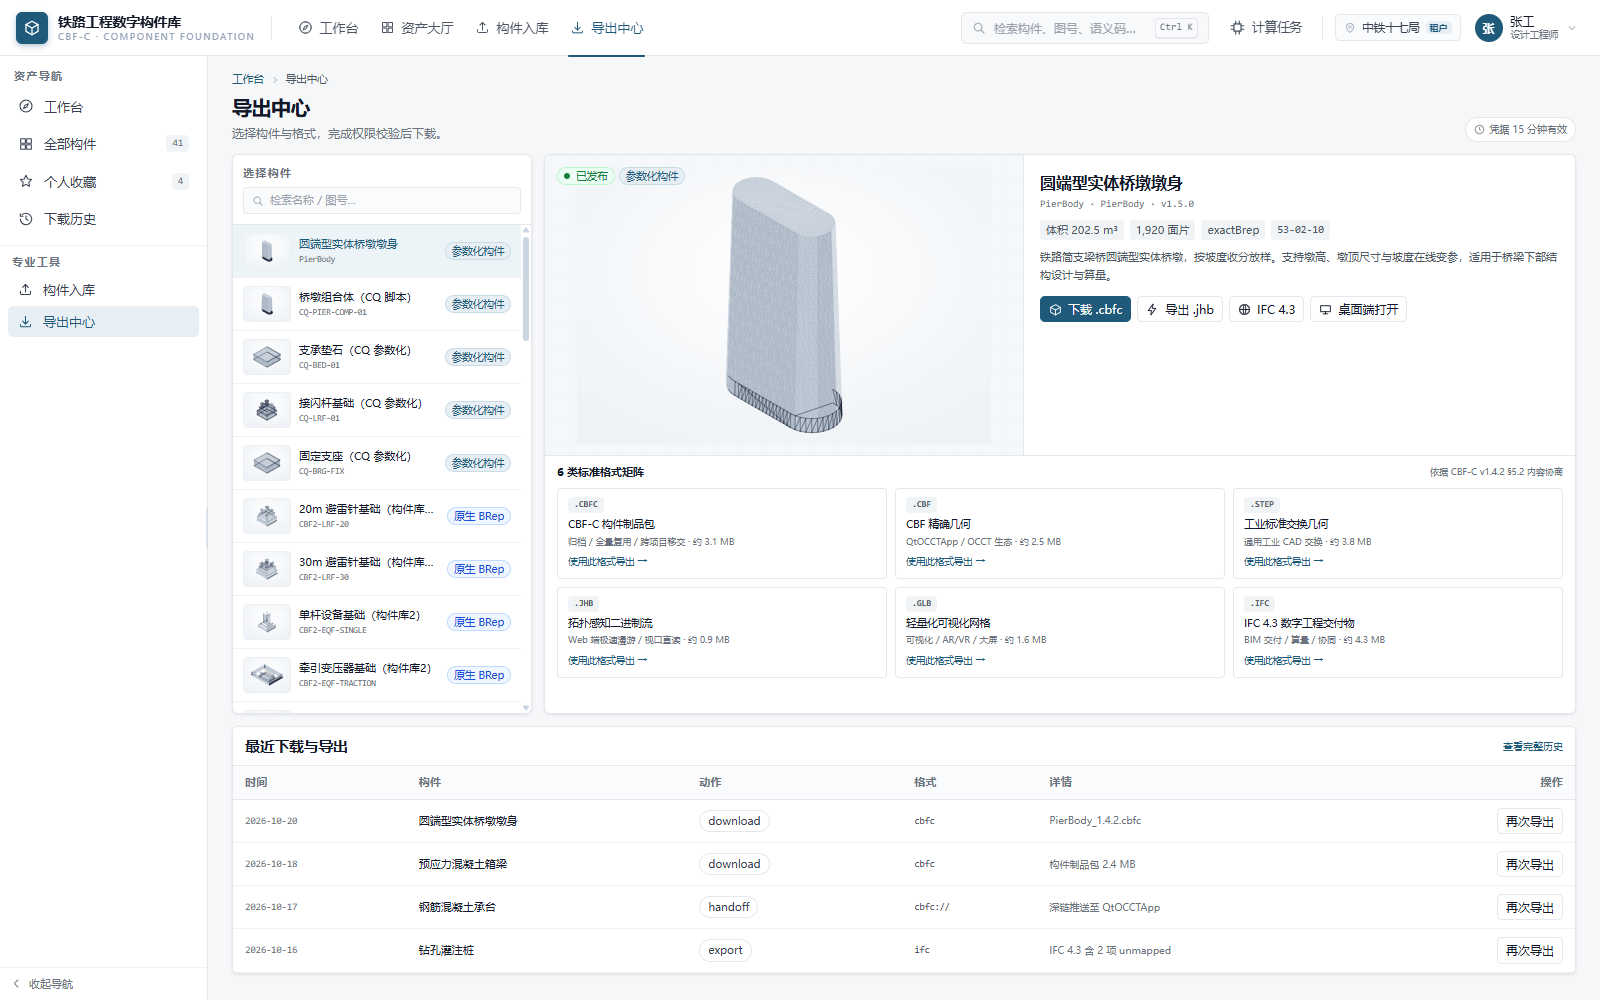
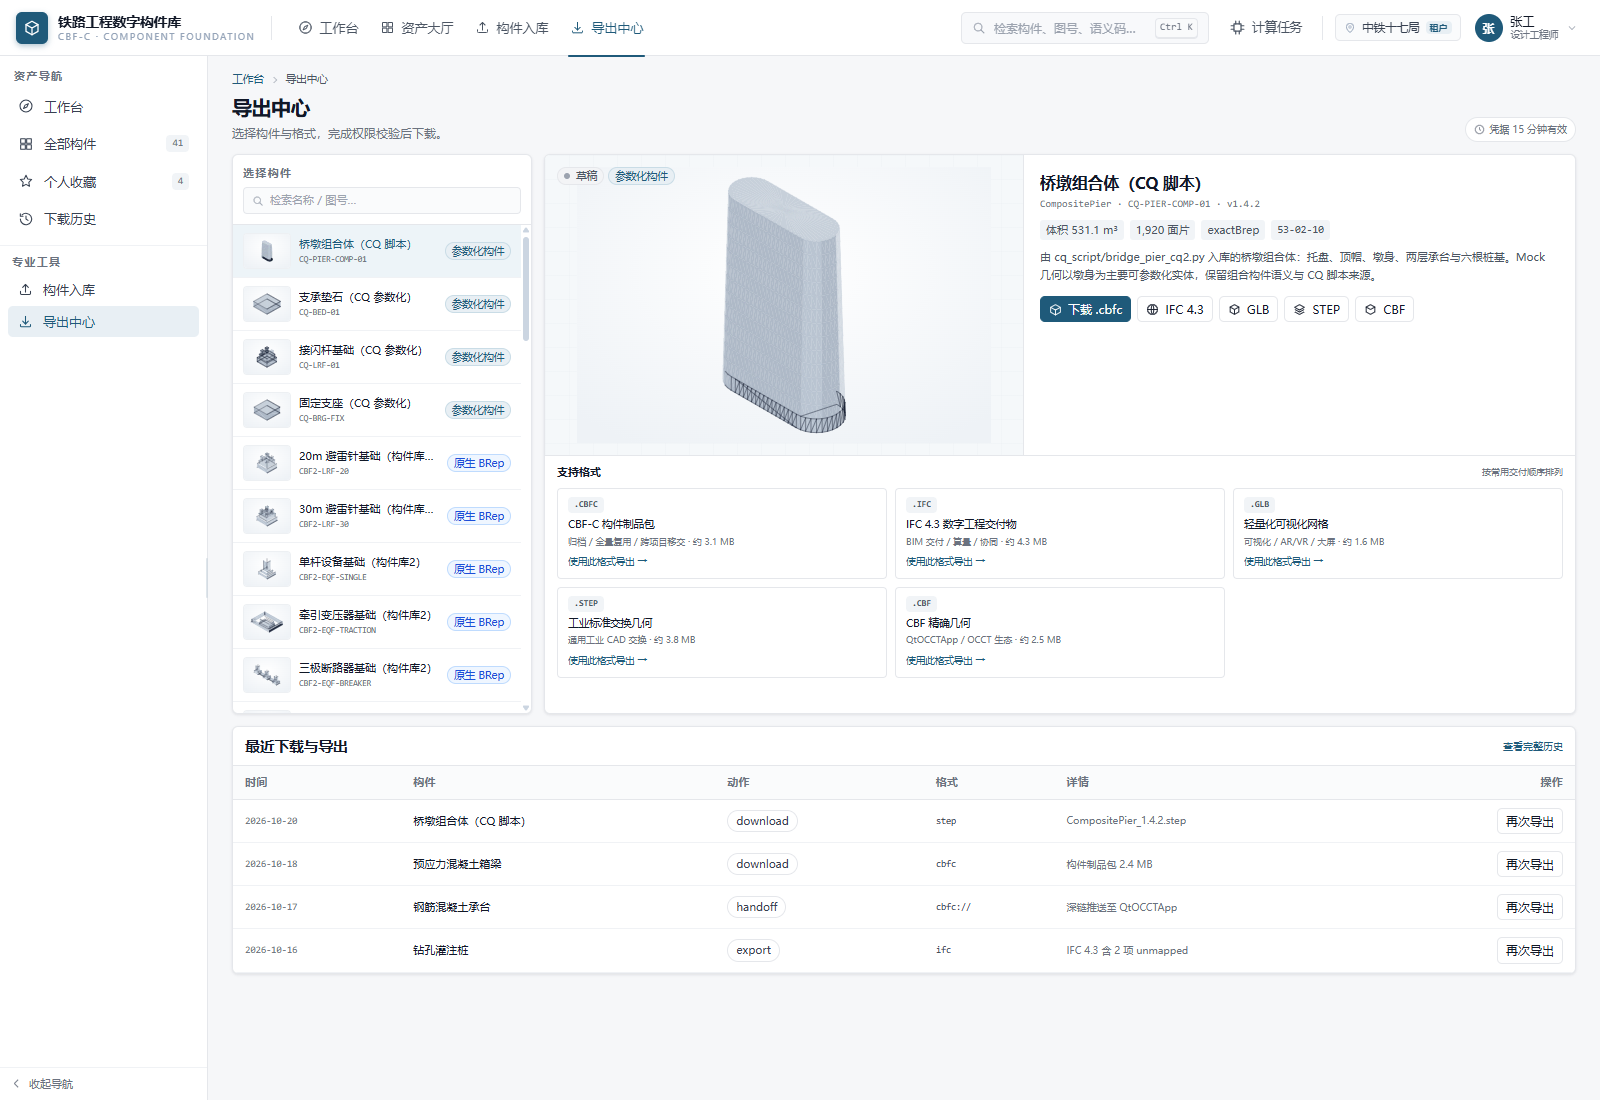
feat(cbfc-web): refine export formats and viewport controls

diff --git a/cbfc-web/src/components/export/ExportFlowModal.vue b/cbfc-web/src/components/export/ExportFlowModal.vue
@@ -30,6 +30,7 @@ const session = useSessionStore();
 const ui = useUiStore();
 
 type FormatOption = DownloadFormat & { available: boolean; reason: string | null };
+const FORMAT_ORDER = ['cbfc', 'ifc', 'glb', 'step', 'cbf'];
 const formats = ref<FormatOption[]>([]);
 const formatsLoading = ref(false);
 const selected = ref<string>('cbfc');
@@ -62,8 +63,11 @@ async function loadFormats() {
   formatsLoading.value = true;
   try {
     const data = await api.formats(props.component.familyId);
-    formats.value = data.formats;
-    const firstAvailable = data.formats.find((f) => f.available);
+    const available = data.formats.filter((format) => FORMAT_ORDER.includes(format.id));
+    formats.value = FORMAT_ORDER.map((id) => available.find((format) => format.id === id)).filter(
+      (format): format is FormatOption => Boolean(format),
+    );
+    const firstAvailable = formats.value.find((f) => f.available);
     if (firstAvailable) selected.value = firstAvailable.id;
   } catch (loadError) {
     error.value = loadError instanceof Error ? loadError.message : '格式清单加载失败';
@@ -172,7 +176,7 @@ function downloadNow() {
   ui.notify({
     type: 'success',
     title: '下载已开始',
-    message: `${ticket.value.fileName} · ${formatBytes(ticket.value.sizeBytes)}\n可在 QtOCCTApp 桌面端通过【文件 → 导入】直接打开。`,
+    message: `${ticket.value.fileName} · ${formatBytes(ticket.value.sizeBytes)}`,
   });
 }
 
@@ -274,7 +278,7 @@ async function copyChecksum() {
 <template>
   <ModalShell
     :open="open"
-    title="构件导出与跨端协同"
+    title="构件导出"
     :subtitle="component ? `${component.name} · ${component.drawingCode} · v${component.revision}` : ''"
     icon="download"
     width="lg"
@@ -284,7 +288,7 @@ async function copyChecksum() {
       <!-- 步骤 -->
       <ol class="mb-5 flex items-center gap-2">
         <li
-          v-for="(label, index) in ['格式与版本', '权限与许可', '生成与协同']"
+          v-for="(label, index) in ['格式与版本', '权限与许可', '生成与下载']"
           :key="label"
           class="flex flex-1 items-center gap-2"
         >
@@ -434,53 +438,9 @@ async function copyChecksum() {
           </div>
 
           <div class="rounded-md border border-line bg-[#FAFBFC] p-3">
-            <div class="flex items-start justify-between gap-2">
-              <div>
-                <p class="flex items-center gap-1.5 text-[12px] font-semibold text-ink">
-                  <AppIcon name="desktop" :size="14" class="text-primary" />在 QtOCCTApp 桌面端打开
-                </p>
-                <p class="mt-0.5 text-[10.5px] leading-relaxed text-muted">
-                  一次性 Handoff Token（TTL 45s，用后即焚）；2.0s 内未检测到桌面端自动回退文件下载。
-                </p>
-              </div>
-              <button class="btn btn-outline btn-sm" :disabled="busy" @click="startHandoff">
-                <AppIcon name="external" :size="12" />唤起桌面端
-              </button>
-            </div>
-
-            <div v-if="handoff" class="mt-2 space-y-1.5">
-              <div class="flex items-center gap-1.5 rounded border border-line bg-white px-2 py-1">
-                <span class="shrink-0 text-[9.5px] text-muted">DEEP LINK</span>
-                <span class="mono min-w-0 flex-1 truncate text-[9.5px] text-[#374151]">{{ handoff.deepLink }}</span>
-                <button class="shrink-0 text-[#6B7280] hover:text-primary" title="复制定位短链" @click="copyLink">
-                  <AppIcon name="copy" :size="12" />
-                </button>
-              </div>
-              <div class="flex flex-wrap items-center gap-1.5">
-                <StatusBadge
-                  :tone="handoffStatus === 'success' ? 'success' : handoffStatus === 'fallback' ? 'warning' : handoffStatus === 'error' ? 'danger' : 'info'"
-                  :label="
-                    handoffStatus === 'success'
-                      ? '桌面端票据已核销'
-                      : handoffStatus === 'fallback'
-                        ? '未检测到桌面端 · 已回退下载'
-                        : handoffStatus === 'error'
-                          ? '票据异常'
-                          : handoffStatus === 'probing'
-                            ? '等待桌面端握手（2.0s）'
-                            : '票据已签发'
-                  "
-                />
-                <span class="mono text-[9px] text-[#9CA3AF]">{{ maskKey(handoff.handoffToken, 14, 4) }} · TTL {{ handoff.expiresIn }}s</span>
-                <button class="btn btn-outline btn-sm" :disabled="busy" @click="simulateDesktopConsume">
-                  模拟桌面端核销
-                </button>
-              </div>
-              <div v-if="consumed" class="rounded border border-[#BBF7D0] bg-[#F0FDF4] px-2 py-1.5">
-                <p class="text-[10px] text-success">核销成功 · 桌面端已获得临时下载授权</p>
-                <p class="mono mt-0.5 truncate text-[9px] text-[#166534]">{{ consumed.downloadUrl }}</p>
-              </div>
-            </div>
+            <p class="text-[10.5px] leading-relaxed text-muted">
+              下载凭据 15 分钟内有效；制品由服务端按当前标准型号生成。
+            </p>
           </div>
         </template>
 
@@ -491,7 +451,7 @@ async function copyChecksum() {
         <div class="flex items-center gap-2 rounded-md border border-line bg-white px-3 py-2">
           <AppIcon name="info" :size="13" class="text-[#9CA3AF]" />
           <p class="text-[10px] leading-relaxed text-muted">
-            优先使用已预烘焙的标准型号制品；也可通过 cbfc:// 深链在桌面端打开。下载凭据 15 分钟内有效。
+            优先使用已预烘焙的标准型号制品；下载凭据 15 分钟内有效。
           </p>
         </div>
       </div>
@@ -502,7 +462,7 @@ async function copyChecksum() {
         <button v-if="step > 1" class="btn btn-ghost btn-sm" @click="prevStep">
           <AppIcon name="arrowLeft" :size="13" />上一步
         </button>
-        <span v-else class="text-[10px] text-muted">共 6 类标准格式 · 依据 CBF-C v1.4.2 §5.2 内容协商</span>
+        <span v-else class="text-[10px] text-muted">支持 5 种交付格式 · 依据 CBF-C v1.4.2 §5.2 内容协商</span>
         <div class="flex items-center gap-2">
           <button class="btn btn-ghost btn-sm" @click="emit('close')">关闭</button>
           <button v-if="step === 1" class="btn btn-primary btn-sm" :disabled="!selectedFormat?.available" @click="nextStep">

diff --git a/cbfc-web/src/views/ExportCenterView.vue b/cbfc-web/src/views/ExportCenterView.vue
@@ -26,7 +26,6 @@ const formats = ref<FormatRow[]>([]);
 const search = ref('');
 const exportOpen = ref(false);
 const exportFormat = ref('cbfc');
-const autoHandoff = ref(false);
 const loading = ref(true);
 const history = ref<{ id: string; familyId: string; name: string; action: string; format?: string; at: string; detail?: string }[]>([]);
 const ifcBusy = ref(false);
@@ -44,6 +43,15 @@ const filteredComponents = computed(() => {
 const exportHistory = computed(() =>
   history.value.filter((h) => ['download', 'export', 'handoff'].includes(h.action)).slice(0, 10),
 );
+const FORMAT_ORDER = ['cbfc', 'ifc', 'glb', 'step', 'cbf'];
+const visibleFormats = computed(() =>
+  FORMAT_ORDER.map((id) => formats.value.find((format) => format.id === id)).filter(
+    (format): format is FormatRow => Boolean(format),
+  ),
+);
+function isFormatAvailable(id: string) {
+  return formats.value.find((format) => format.id === id)?.available ?? true;
+}
 
 async function selectComponent(familyId: string) {
   selectedFamily.value = familyId;
@@ -59,9 +67,8 @@ async function selectComponent(familyId: string) {
   }
 }
 
-function openExport(format = 'cbfc', handoff = false) {
+function openExport(format = 'cbfc') {
   exportFormat.value = format;
-  autoHandoff.value = handoff;
   exportOpen.value = true;
 }
 
@@ -85,7 +92,7 @@ async function exportIfc() {
 
 async function reExport(familyId: string) {
   await selectComponent(familyId);
-  openExport('cbfc', false);
+  openExport('cbfc');
 }
 
 onMounted(async () => {
@@ -188,14 +195,17 @@ onMounted(async () => {
                 <button class="btn btn-primary btn-sm" @click="openExport('cbfc')">
                   <AppIcon name="package" :size="13" />下载 .cbfc
                 </button>
-                <button class="btn btn-outline btn-sm" @click="openExport('jhb')">
-                  <AppIcon name="zap" :size="13" />导出 .jhb
-                </button>
                 <button class="btn btn-outline btn-sm" :disabled="ifcBusy || !detail.geometry.exactBrep" @click="exportIfc">
                   <AppIcon name="globe" :size="13" />IFC 4.3
                 </button>
-                <button class="btn btn-outline btn-sm" @click="openExport('cbfc', true)">
-                  <AppIcon name="desktop" :size="13" />桌面端打开
+                <button class="btn btn-outline btn-sm" :disabled="!isFormatAvailable('glb')" @click="openExport('glb')">
+                  <AppIcon name="cube" :size="13" />GLB
+                </button>
+                <button class="btn btn-outline btn-sm" :disabled="!isFormatAvailable('step')" @click="openExport('step')">
+                  <AppIcon name="layers" :size="13" />STEP
+                </button>
+                <button class="btn btn-outline btn-sm" :disabled="!isFormatAvailable('cbf')" @click="openExport('cbf')">
+                  <AppIcon name="box" :size="13" />CBF
                 </button>
               </div>
             </div>
@@ -203,12 +213,12 @@ onMounted(async () => {
 
           <div class="border-t border-line">
             <div class="flex items-center justify-between px-3 py-2">
-              <p class="text-[11px] font-semibold text-ink">6 类标准格式矩阵</p>
-              <span class="text-[9px] text-muted">依据 CBF-C v1.4.2 §5.2 内容协商</span>
+              <p class="text-[11px] font-semibold text-ink">支持格式</p>
+              <span class="text-[9px] text-muted">按常用交付顺序排列</span>
             </div>
             <div class="grid gap-2 px-3 pb-3 sm:grid-cols-2 xl:grid-cols-3">
               <div
-                v-for="format in formats"
+                v-for="format in visibleFormats"
                 :key="format.id"
                 class="rounded border px-2.5 py-2"
                 :class="format.available ? 'border-line bg-white' : 'border-line bg-[#FAFBFC] opacity-60'"
@@ -263,7 +273,6 @@ onMounted(async () => {
       :open="exportOpen"
       :component="detail"
       :initial-format="exportFormat"
-      :auto-handoff="autoHandoff"
       @close="exportOpen = false"
     />
   </div>

diff --git a/cbfc-web/src/views/HomeView.vue b/cbfc-web/src/views/HomeView.vue
@@ -3,9 +3,8 @@ import { computed, onMounted, ref } from 'vue';
 import { useRouter } from 'vue-router';
 import AppIcon from '@/components/ui/AppIcon.vue';
 import StatusBadge from '@/components/ui/StatusBadge.vue';
-import ExportFlowModal from '@/components/export/ExportFlowModal.vue';
 import { api } from '@/api/client';
-import type { ComponentDetail, ComponentSummary, SemanticProfile } from '@/api/types';
+import type { ComponentSummary, SemanticProfile } from '@/api/types';
 import { useSessionStore } from '@/stores/session';
 import { useUiStore } from '@/stores/ui';
 import {
@@ -28,10 +27,6 @@ const publishedCount = ref(0);
 const profile = ref<SemanticProfile | null>(null);
 const loading = ref(true);
 const recentTab = ref<'history' | 'favorites'>('history');
-const exportOpen = ref(false);
-const exportComponent = ref<ComponentDetail | null>(null);
-const autoHandoff = ref(false);
-const loadingComponent = ref(false);
 
 const quickCards = computed(() => {
   const cards = [
@@ -172,20 +167,6 @@ function openRecent(item: { familyId: string }) {
   router.push(`/components/${item.familyId}`);
 }
 
-async function openDesktop(item: { familyId: string }) {
-  loadingComponent.value = true;
-  try {
-    const detail = await api.component(item.familyId);
-    exportComponent.value = detail;
-    autoHandoff.value = true;
-    exportOpen.value = true;
-  } catch (error) {
-    ui.notify({ type: 'error', title: '构件加载失败', message: String(error) });
-  } finally {
-    loadingComponent.value = false;
-  }
-}
-
 onMounted(load);
 </script>
 
@@ -315,14 +296,6 @@ onMounted(load);
                 <span class="text-[8.5px] text-[#9CA3AF]">{{ formatDate(item.at) }}</span>
               </p>
             </div>
-            <button
-              class="btn btn-ghost btn-icon h-6 w-6 opacity-0 transition-opacity group-hover:opacity-100"
-              title="在桌面端打开"
-              :disabled="loadingComponent"
-              @click="openDesktop(item)"
-            >
-              <AppIcon name="desktop" :size="13" />
-            </button>
           </div>
         </div>
         <div v-else class="px-4 py-10 text-center">
@@ -401,12 +374,5 @@ onMounted(load);
       <p class="font-mono">CBF-C Component Foundation · 规范 CBF-C v1.4.2</p>
     </div>
 
-    <ExportFlowModal
-      :open="exportOpen"
-      :component="exportComponent"
-      initial-format="cbfc"
-      :auto-handoff="autoHandoff"
-      @close="exportOpen = false"
-    />
   </div>
 </template>

diff --git a/cbfc-web/src/views/ComponentDetailView.vue b/cbfc-web/src/views/ComponentDetailView.vue
@@ -75,7 +75,6 @@ const selectedProfile = ref('');
 const semanticsLoading = ref(false);
 const exportOpen = ref(false);
 const exportFormat = ref('cbfc');
-const autoHandoff = ref(false);
 const ifcBusy = ref(false);
 const selectedVersion = ref<string | null>(null);
 const selectedModel = ref('');
@@ -181,9 +180,8 @@ function selectShape(key: string) {
   if (!isParametric.value) return;
 }
 
-function openExport(format = 'cbfc', handoff = false) {
+function openExport(format = 'cbfc') {
   exportFormat.value = format;
-  autoHandoff.value = handoff;
   exportOpen.value = true;
 }
 
@@ -455,9 +453,6 @@ onMounted(async () => {
                 @click="isParametric && router.push(`/components/${detail.familyId}/configurator`)"
               >
                 <AppIcon name="sliders" :size="14" />配置参数
-              </button>
-              <button class="btn btn-outline" @click="openExport('cbfc', true)">
-                <AppIcon name="desktop" :size="14" />在 QtOCCTApp 中打开
               </button>
               <button class="btn btn-outline" :disabled="ifcBusy || !detail.geometry.exactBrep" @click="exportIfc">
                 <span v-if="ifcBusy" class="h-3 w-3 animate-spin rounded-full border-2 border-[#CBD5E1] border-t-primary" />
@@ -956,7 +951,6 @@ onMounted(async () => {
       :open="exportOpen"
       :component="detail"
       :initial-format="exportFormat"
-      :auto-handoff="autoHandoff"
       :model-number="selectedModel"
       @close="exportOpen = false"
     />

diff --git a/cbfc-web/README.md b/cbfc-web/README.md
@@ -56,7 +56,7 @@ npm run shots
 
 ### 3.3 构件详情
 
-- 3D 视口、关键技术规格、下载、参数配置入口、桌面端打开、IFC 导出。
+- 3D 视口、关键技术规格、下载、参数配置入口、IFC 导出。
 - 普通设计工程师看到：几何部位、外部语义、二维投影、版本记录。
 - 管理员/审查专家额外看到：确定性缓存与 QA、治理快照、cacheKey/JHB 信息。
 
@@ -97,7 +97,7 @@ npm run shots
 
 ### 3.10 导出中心 / 收藏 / 历史
 
-- 导出：格式 → 许可 → 下载，可选桌面端打开。
+- 导出：格式 → 许可 → 下载，支持 `.cbfc / .ifc / .glb / .step / .cbf`。
 - 收藏与历史保持简单列表，不重复大屏统计。
 
 ![审核质检](shots/review.png)
